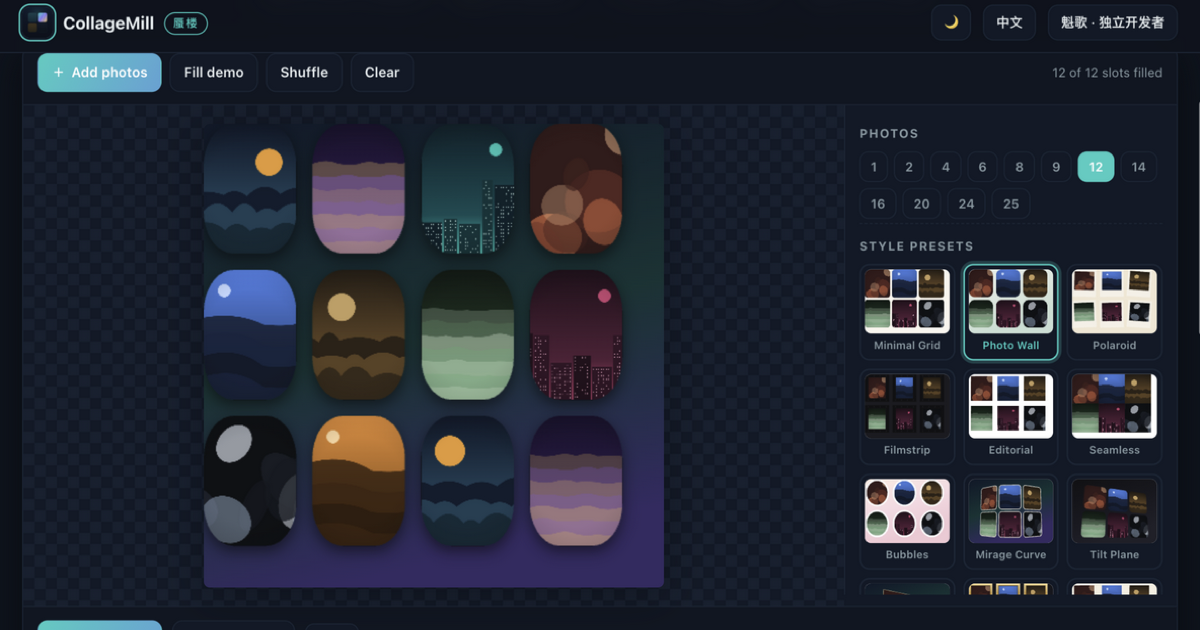
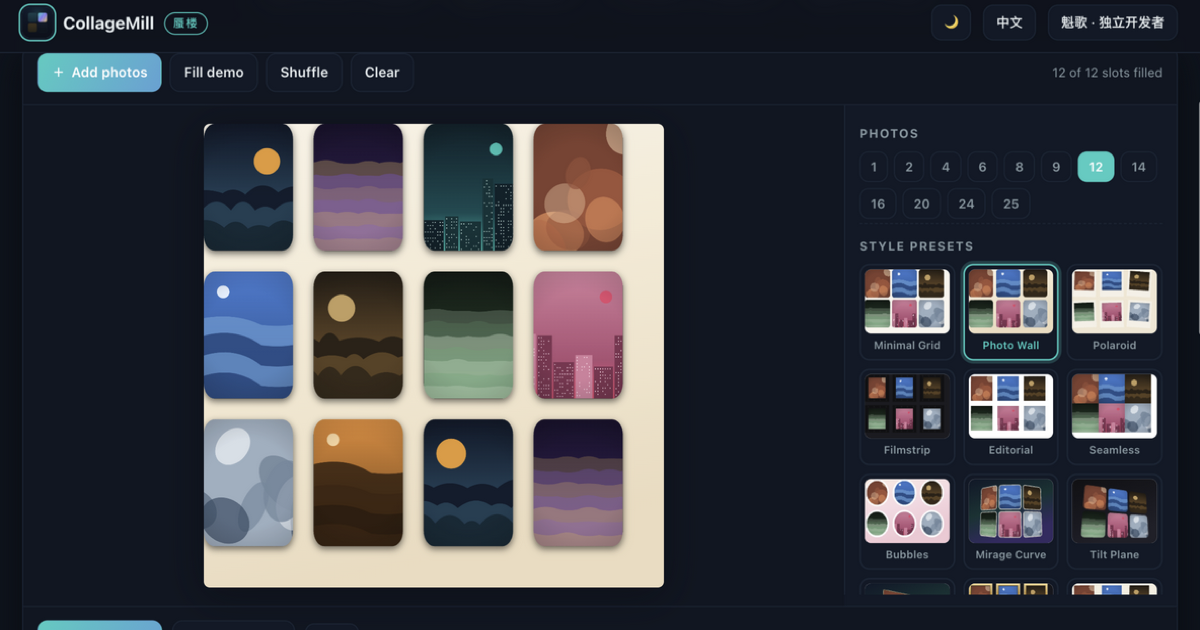
design pass: photo-wall defaults — cell-relative corner radius (kills capsule cells), warm paper default bg, lighter demo palettes, stage checkerboard only for transparent bg, boot applies full preset

diff --git a/index.html b/index.html
@@ -82,8 +82,8 @@ h1 .grad{background:linear-gradient(100deg,var(--accent),var(--accent2));-webkit
 .btn.warn:hover{border-color:#e5484d;color:#e5484d}
 .slotline{font-size:12.5px;color:var(--mut);margin-left:auto}
 .appgrid{display:grid;grid-template-columns:minmax(0,1fr) 328px}
-.stage{padding:18px;display:flex;align-items:flex-start;justify-content:center;min-height:420px;
-  background:repeating-conic-gradient(color-mix(in srgb,var(--line) 55%,transparent) 0 25%,transparent 0 50%) 0 0/22px 22px}
+.stage{padding:18px;display:flex;align-items:center;justify-content:center;min-height:420px;background:var(--card2)}
+.stage.alpha{background:repeating-conic-gradient(color-mix(in srgb,var(--line) 55%,transparent) 0 25%,transparent 0 50%) 0 0/22px 22px}
 #cv{max-width:100%;border-radius:6px;box-shadow:0 8px 40px rgba(0,0,0,.25);touch-action:none;cursor:grab}
 .panel{border-left:1px solid var(--line);padding:6px 14px 20px;max-height:76vh;overflow:auto}
 .grp{padding:12px 0 4px;border-bottom:1px dashed var(--line)}
@@ -470,10 +470,10 @@ function toast(msg){const el=$('#toast');el.textContent=msg;el.classList.add('sh
 function mulberry(seed){let a=seed>>>0;return()=>{a|=0;a=a+0x6D2B79F5|0;let z=Math.imul(a^a>>>15,1|a);z=z+Math.imul(z^z>>>7,61|z)^z;return((z^z>>>14)>>>0)/4294967296}}
 const PAL=[
   ['#0e1a2f','#274b63','#e8a33d','#f2d5a0','#122c3a'], ['#1b1033','#452768','#8b5cf6','#e8c468','#2a1444'],
-  ['#0b2530','#14555c','#3ec6b8','#d9f2ea','#0e3a40'], ['#3a1c1c','#7c3a2d','#e07a4f','#f2c094','#4a2420'],
-  ['#101828','#243b6b','#5b8def','#c9dcff','#182848'], ['#2b2115','#6b4f2a','#c9a86a','#efe0bd','#3a2c1a'],
-  ['#101c14','#2d5233','#6fae7c','#dcedd8','#1c3421'], ['#260f1e','#5c2440','#c94f7c','#f2b8cd','#38152a'],
-  ['#0c0f14','#2a3140','#8b9db3','#e2e8f0','#161b24'], ['#301c0a','#7a4a16','#e8963d','#f7d9a8','#46290f']
+  ['#0b2530','#14555c','#3ec6b8','#d9f2ea','#0e3a40'], ['#8a4a38','#c9704e','#f2a06b','#ffe3c0','#a35a42'],
+  ['#6ea3d8','#2e5f9e','#4d86d8','#e8f2ff','#1d4480'], ['#2b2115','#6b4f2a','#c9a86a','#efe0bd','#3a2c1a'],
+  ['#101c14','#2d5233','#6fae7c','#dcedd8','#1c3421'], ['#d98aa8','#b85a80','#e8547c','#ffe0ec','#8a3a5c'],
+  ['#a8b8c8','#5a7086','#39506a','#f2f6fa','#7e93a8'], ['#301c0a','#7a4a16','#e8963d','#f7d9a8','#46290f']
 ];
 const demoCache=[];
 function makeDemo(i){
@@ -537,27 +537,27 @@ const state={
   count:12, photos:[], sel:-1,
   view:{
     preset:'wall', mode:'flat', intensity:55, aspect:1,
-    gap:.035, radius:.09, shape:'round', shadow:true,
+    gap:.045, radius:.12, shape:'round', shadow:true,
     frame:'none', frameW:.05, frameColor:'#ffffff',
-    bgKind:'gradient', bgColor:'#f3ead8', gradIdx:0,
+    bgKind:'gradient', bgColor:'#f3ead8', gradIdx:1,
     title:'', titleFont:'serif', cellTilt:false
   }
 };
 function V(){return state.view}
 
 const PRESETS=[
- {id:'grid', en:'Minimal Grid', zh:'简约网格', d:{mode:'flat',preset:'grid',gap:.03,radius:.05,shape:'round',frame:'none',shadow:false,bgKind:'color',bgColor:'#faf7f0',cellTilt:false,frameW:.05}},
- {id:'wall', en:'Photo Wall', zh:'光影照片墙', d:{mode:'flat',preset:'wall',gap:.045,radius:.1,shape:'round',frame:'none',shadow:true,bgKind:'gradient',gradIdx:2,cellTilt:false}},
- {id:'polaroid', en:'Polaroid', zh:'拍立得', d:{mode:'flat',preset:'polaroid',gap:.06,radius:.02,shape:'sharp',frame:'polaroid',frameW:.055,shadow:true,bgKind:'color',bgColor:'#f3ead8',cellTilt:true}},
- {id:'film', en:'Filmstrip', zh:'胶片', d:{mode:'flat',preset:'film',gap:.055,radius:.015,shape:'sharp',frame:'film',frameW:.085,shadow:true,bgKind:'color',bgColor:'#1d1d24',cellTilt:false}},
+ {id:'grid', en:'Minimal Grid', zh:'简约网格', d:{mode:'flat',preset:'grid',gap:.03,radius:.1,shape:'round',frame:'none',shadow:false,bgKind:'color',bgColor:'#faf7f0',cellTilt:false,frameW:.05}},
+ {id:'wall', en:'Photo Wall', zh:'光影照片墙', d:{mode:'flat',preset:'wall',gap:.045,radius:.12,shape:'round',frame:'none',shadow:true,bgKind:'gradient',gradIdx:1,cellTilt:false}},
+ {id:'polaroid', en:'Polaroid', zh:'拍立得', d:{mode:'flat',preset:'polaroid',gap:.06,radius:.04,shape:'sharp',frame:'polaroid',frameW:.055,shadow:true,bgKind:'color',bgColor:'#f3ead8',cellTilt:true}},
+ {id:'film', en:'Filmstrip', zh:'胶片', d:{mode:'flat',preset:'film',gap:.055,radius:.05,shape:'sharp',frame:'film',frameW:.085,shadow:true,bgKind:'color',bgColor:'#1d1d24',cellTilt:false}},
  {id:'editorial', en:'Editorial', zh:'杂志页', d:{mode:'flat',preset:'editorial',gap:.014,radius:0,shape:'sharp',frame:'solid',frameW:.05,frameColor:'#ffffff',shadow:false,bgKind:'color',bgColor:'#ffffff',cellTilt:false}},
  {id:'seamless', en:'Seamless', zh:'无缝拼贴', d:{mode:'flat',preset:'seamless',gap:0,radius:0,shape:'sharp',frame:'none',shadow:false,bgKind:'color',bgColor:'#ffffff',cellTilt:false}},
  {id:'bubbles', en:'Bubbles', zh:'圆形气泡', d:{mode:'flat',preset:'bubbles',gap:.055,radius:0,shape:'circle',frame:'solid',frameW:.045,frameColor:'#ffffff',shadow:true,bgKind:'gradient',gradIdx:4,cellTilt:false}},
- {id:'curve', en:'Mirage Curve', zh:'蜃景曲面', d:{mode:'bend',intensity:55,preset:'curve',gap:.03,radius:.06,shape:'round',frame:'solid',frameW:.02,frameColor:'#e8e4da',shadow:true,bgKind:'gradient',gradIdx:0,cellTilt:false}},
- {id:'tilt', en:'Tilt Plane', zh:'斜面透视', d:{mode:'tilt',intensity:55,preset:'tilt',gap:.035,radius:.07,shape:'round',frame:'none',shadow:true,bgKind:'gradient',gradIdx:3,cellTilt:false}},
- {id:'cube', en:'Cube Hall', zh:'立方展厅', d:{mode:'cube',intensity:55,preset:'cube',gap:.035,radius:.03,shape:'round',frame:'gold',frameW:.03,shadow:false,bgKind:'gradient',gradIdx:0,cellTilt:false}},
- {id:'gallery', en:'Gold Gallery', zh:'金框画廊', d:{mode:'flat',preset:'gallery',gap:.065,radius:.02,shape:'sharp',frame:'gold',frameW:.06,shadow:true,bgKind:'gradient',gradIdx:3,cellTilt:false}},
- {id:'torn', en:'Torn Paper', zh:'撕纸拼贴', d:{mode:'flat',preset:'torn',gap:.06,radius:.01,shape:'sharp',frame:'torn',frameW:.06,shadow:true,bgKind:'color',bgColor:'#f6f1e4',cellTilt:false}}
+ {id:'curve', en:'Mirage Curve', zh:'蜃景曲面', d:{mode:'bend',intensity:55,preset:'curve',gap:.03,radius:.12,shape:'round',frame:'solid',frameW:.02,frameColor:'#e8e4da',shadow:true,bgKind:'gradient',gradIdx:0,cellTilt:false}},
+ {id:'tilt', en:'Tilt Plane', zh:'斜面透视', d:{mode:'tilt',intensity:55,preset:'tilt',gap:.035,radius:.14,shape:'round',frame:'none',shadow:true,bgKind:'gradient',gradIdx:3,cellTilt:false}},
+ {id:'cube', en:'Cube Hall', zh:'立方展厅', d:{mode:'cube',intensity:55,preset:'cube',gap:.035,radius:.08,shape:'round',frame:'gold',frameW:.03,shadow:false,bgKind:'gradient',gradIdx:0,cellTilt:false}},
+ {id:'gallery', en:'Gold Gallery', zh:'金框画廊', d:{mode:'flat',preset:'gallery',gap:.065,radius:.06,shape:'sharp',frame:'gold',frameW:.06,shadow:true,bgKind:'gradient',gradIdx:3,cellTilt:false}},
+ {id:'torn', en:'Torn Paper', zh:'撕纸拼贴', d:{mode:'flat',preset:'torn',gap:.06,radius:.04,shape:'sharp',frame:'torn',frameW:.06,shadow:true,bgKind:'color',bgColor:'#f6f1e4',cellTilt:false}}
 ];
 
 /* ---------------- layout ---------------- */
@@ -931,8 +931,7 @@ function unitRadiusFor(flat){
   const v=V();
   if(v.shape==='circle')return .5;
   if(v.shape==='sharp')return 0;
-  const px=v.radius*Math.min(CW,CH);
-  return clamp(Math.min(px/(flat.w||1),px/(flat.h||1)),0,.5);
+  return clamp(v.radius,0,.5); // cell-relative: fraction of the cell's min edge
 }
 
 function renderScene(c,W,H,o){
@@ -972,6 +971,7 @@ function isBgDark(){
 
 /* preview render */
 function render(){
+  $('#stage').classList.toggle('alpha', V().bgKind==='transparent');
   const stage=$('#stage'), availW=Math.max(160,Math.min(stage.clientWidth-36, 980));
   const ar=V().aspect;
   let w=availW, h=w/ar;
@@ -1270,7 +1270,7 @@ $('#btnLang').onclick=()=>applyLang(LANG==='en'?'zh':'en');
 initLang();
 applyTheme();
 buildPresets();
-syncAllControls();
+applyPreset(V().preset); // boot with the full preset (no half-applied defaults)
 rebuildGradChips();
 fillDemo();
 window.addEventListener('load',scheduleRender);
